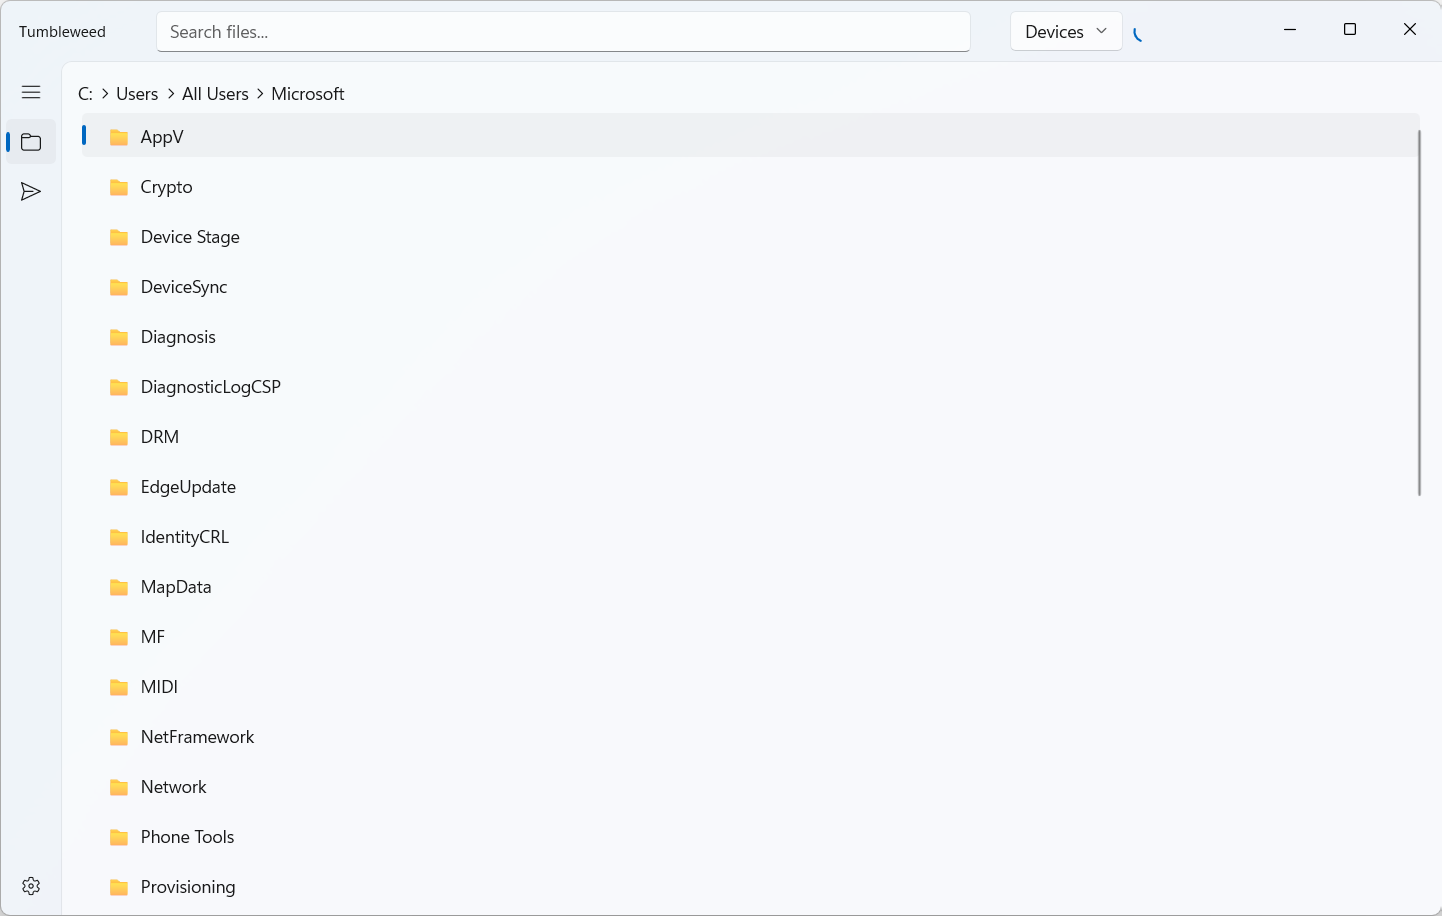
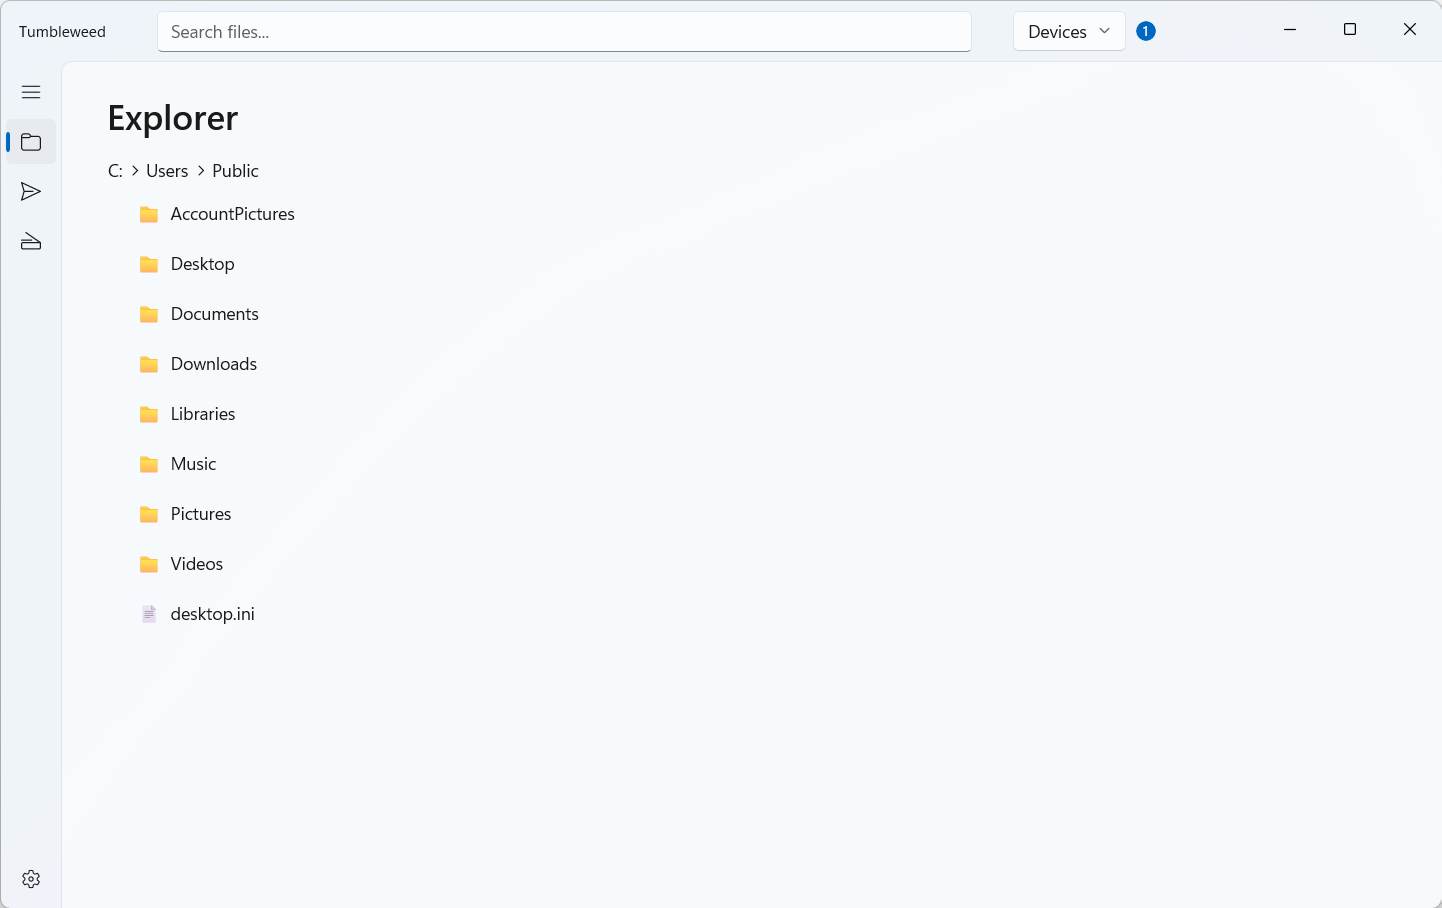
docs: update README for current features; refresh screenshot

diff --git a/README.md b/README.md
@@ -14,26 +14,27 @@ files to one another — no cloud, no accounts, no configuration.
 - **File explorer** — browse folders with a breadcrumb bar and a list view.
   Remembers the last folder you opened (defaults to your Downloads folder on
   first launch).
-- **mDNS advertising** — advertises this machine as
-  `tumbleweed-<hostname>.local` with the service type `_tumbleweed._tcp.local`,
-  so other Tumbleweed instances (and clients) can find it by name.
-- **HTTP file server** — serves the currently-explored folder over HTTP
-  (`GET` / `HEAD`), and accepts incoming files via `PUT`.
-- **Incoming upload confirmation** — before a received file is written, a
-  dialog asks you to confirm and pick the destination folder.
-- **Device discovery** — finds other Tumbleweed devices on the LAN every 3
-  seconds; the title-bar footer shows them in a dropdown with a live count
-  badge (an indeterminate ring while it is still searching). Your own
-  advertisement is filtered out.
-- **Send to device** — pick a device in the footer, then click the upload
-  button on any file in the explorer to push it over the LAN. Success/failure
-  is reported with a transient InfoBar.
-- **Transfer history** — a Transfer page with **All / Downloads / Uploads**
-  tabs tracking everything you send and receive.
-- **Appearance settings** — switch the app theme (follow system / light /
-  dark) from the Settings page.
 - **Fuzzy search** — type in the title-bar search box to fuzzy-match files in
   the current folder; choosing a result selects it in the explorer list.
+- **mDNS advertising & discovery** — advertises this machine as
+  `tumbleweed-<hostname>.local` with the service type `_tumbleweed._tcp.local`,
+  and discovers other Tumbleweed devices on the LAN every few seconds. Your
+  own advertisement is filtered out.
+- **Devices tab** — shows this device (host name, IPs, version) and every
+  discovered device (name, IP, type, version) in two sections.
+- **Send to device** — pick a device in the title-bar footer, then click the
+  upload button on any file in the explorer to push it over the LAN.
+  Success/failure is reported with a transient InfoBar.
+- **HTTP file server** — serves the currently-explored folder over HTTP
+  (`GET` / `HEAD`) and accepts incoming files via `PUT`.
+- **Incoming upload confirmation** — the moment a transfer starts you're
+  asked to confirm and pick the destination folder (queued if several arrive
+  at once). If the app is in the background, the taskbar button flashes.
+- **Transfer history** — a Transfer page with **All / Downloads / Uploads**
+  sections. Active transfers show a live progress bar with transferred/total
+  byte counts; the history persists across app restarts.
+- **Appearance settings** — switch the app theme (follow system / light /
+  dark) from the Settings page; the choice is remembered on restart.
 
 ## How it works
 
@@ -59,14 +60,18 @@ files to one another — no cloud, no accounts, no configuration.
 src/
 ├── main.rs              # App entry: shared state, title bar, navigation
 ├── pages/
+│   ├── devices.rs       # Devices tab (this device + discovered peers)
 │   ├── explorer.rs      # File explorer + fuzzy search + upload button
 │   ├── settings.rs      # Settings page (theme) with reusable simple_card
-│   └── transfer.rs      # Transfer history (All / Downloads / Uploads)
+│   └── transfer.rs      # Transfer history + live progress
 └── tools/
+    ├── attention.rs     # Taskbar flashing for background alerts
     ├── client.rs        # HTTP client used to push files to peers
     ├── mdns.rs          # mDNS advertiser + device discovery
     ├── picker.rs        # WinUI folder picker (incoming uploads)
     ├── server.rs        # HTTP file server (GET / HEAD / PUT)
+    ├── settings_store.rs# INI-style settings persistence
+    ├── transfer_progress.rs # In-progress transfer tracking
     └── upload_gate.rs   # Bridges upload confirmations to the UI thread
 ```
 
@@ -101,8 +106,9 @@ to be installed (handled by the `windows-reactor-setup` build dependency).
 - **HTTP port:** `tools::server::HTTP_PORT` (default `8000`).
 - **Directory listing:** opt-in. It is disabled by default; enable it later by
   wiring `tools::server::set_list_directories(true)` into the UI.
-- **Settings persistence:** the last-opened folder is stored in
-  `%LOCALAPPDATA%\tumbleweed\settings.ini`.
+- **Persistence:** settings (last-opened folder, theme) are stored in
+  `%LOCALAPPDATA%\tumbleweed\settings.ini`; transfer history is stored in
+  `%LOCALAPPDATA%\tumbleweed\history.txt`.
 
 ## Security notes
 
